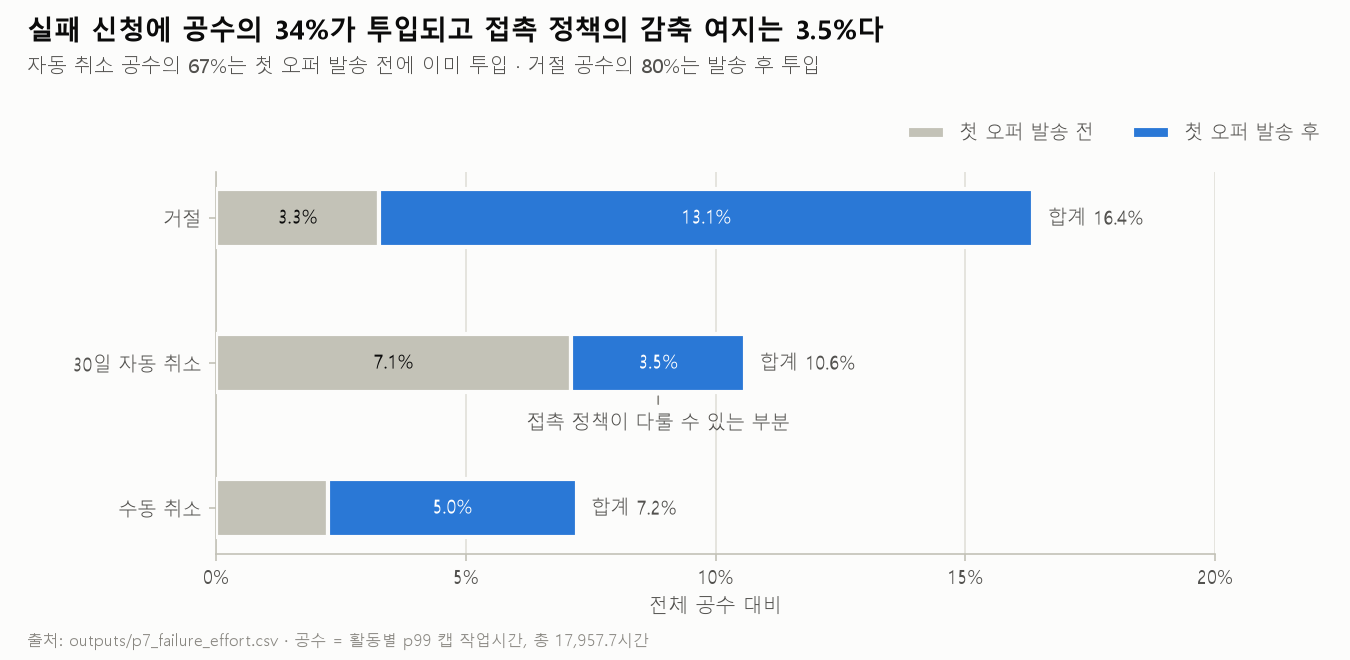
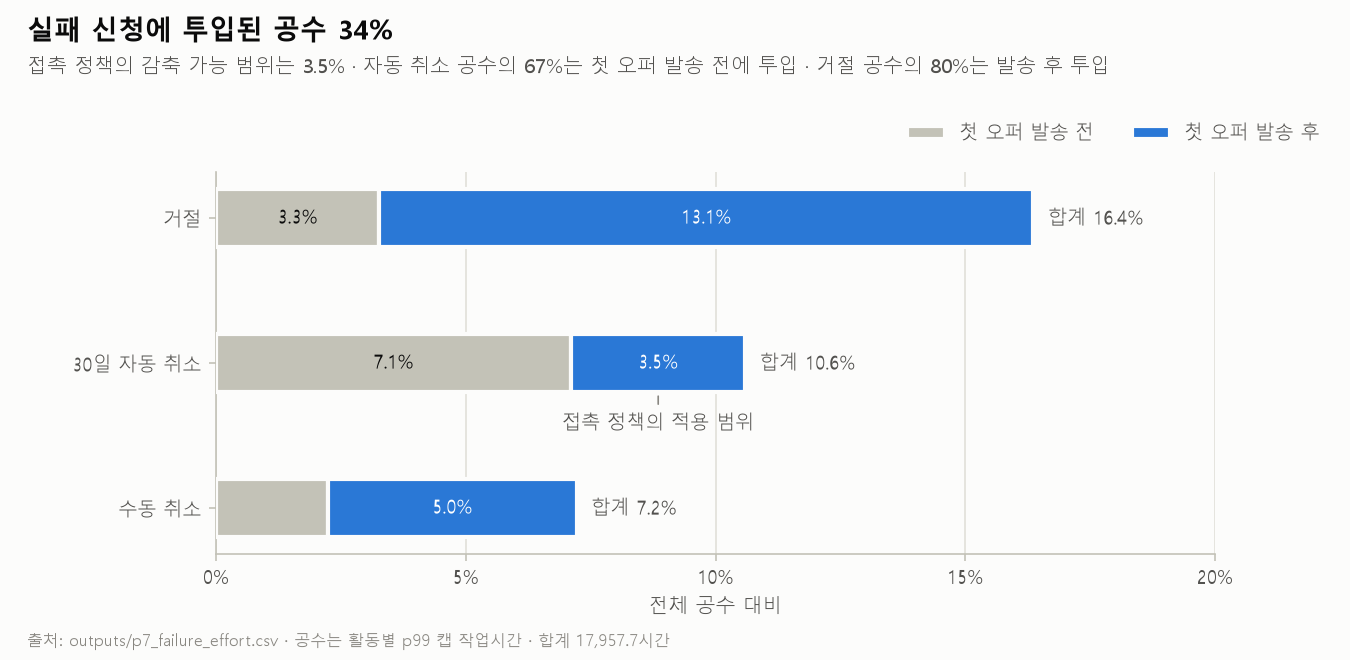
style: 도표 문구를 경영진 보고 어조로 재작성한다
도표 7개의 제목을 결론형 명사구로 바꾸고(30자 이내), 부제·각주의
종결을 순수 명사 하나로 통일했다. 구어 서술어(늘어난다·어렵다)와
층위가 어긋나던 완결문 제목을 걷어냈다.

문서와 대시보드의 도표 대체 텍스트 21건도 새 제목에 맞췄다.

문구 작성 규칙을 CLAUDE.md 0장의 전체 규칙으로 승격했다. 국문
산출물은 예외 없이 humanize-korean을 거치고, 어조는 경영진 보고용을
따르며, 마크다운은 GitHub 렌더링까지 확인한 뒤 보고한다.

Changed region(s): [[0.0, 0.0, 0.8089, 0.1212], [0.4044, 0.6061, 0.5911, 0.6667], [0.3111, 0.9394, 0.4978, 1.0]]

diff --git a/app/dashboard/template.html b/app/dashboard/template.html
@@ -70,7 +70,7 @@
         </div>
         <div class="card figure">
           <h3>30일 자동 취소 규칙</h3>
-          <img src="../charts/p1_cancel_gap.png" alt="취소는 마지막 오퍼 발송 30일 뒤에 집중된다">
+          <img src="../charts/p1_cancel_gap.png" alt="마지막 오퍼 발송 30일 후 취소 집중">
         </div>
       </div>
     </section>
@@ -89,7 +89,7 @@
         </div>
         <div class="card figure">
           <h3>성사율 × 효율</h3>
-          <img src="../charts/p5_rate_vs_eta.png" alt="성사율이 높은 세그먼트와 효율이 높은 세그먼트는 일치하지 않는다">
+          <img src="../charts/p5_rate_vs_eta.png" alt="성사율 순위와 효율 순위 불일치">
         </div>
       </div>
     </section>
@@ -107,7 +107,7 @@
         </div>
         <div class="card figure">
           <h3>배분 곡선</h3>
-          <img src="../charts/p5_targeting_curve.png" alt="같은 공수를 효율 순서로 배분하면 대출 규모가 13% 늘어난다">
+          <img src="../charts/p5_targeting_curve.png" alt="같은 공수로 효율 순서 배분 시 대출 규모 13% 증가">
         </div>
       </div>
     </section>
@@ -125,7 +125,7 @@
         </div>
         <div class="card figure">
           <h3>층화 후 비교</h3>
-          <img src="../charts/p6_multi_offer.png" alt="복수 오퍼의 성사율 우위는 나중 상담에서만 나타난다">
+          <img src="../charts/p6_multi_offer.png" alt="복수 오퍼 성사율 우위는 나중 상담에 한정">
         </div>
       </div>
     </section>
@@ -143,7 +143,7 @@
         </div>
         <div class="card figure">
           <h3>발송 전후 분해</h3>
-          <img src="../charts/p7_failure_effort.png" alt="실패 신청에 공수의 34%가 투입되고 접촉 정책의 감축 여지는 3.5%다">
+          <img src="../charts/p7_failure_effort.png" alt="실패 신청에 투입된 공수 34%">
         </div>
       </div>
     </section>
@@ -161,7 +161,7 @@
         </div>
         <div class="card figure">
           <h3>효율과 은행 처리 대기</h3>
-          <img src="../charts/p8_eta_vs_bank_wait.png" alt="효율이 높은 세그먼트일수록 은행 처리 대기시간이 증가한다">
+          <img src="../charts/p8_eta_vs_bank_wait.png" alt="효율이 높은 세그먼트일수록 긴 은행 처리 대기시간">
         </div>
       </div>
     </section>
@@ -178,7 +178,7 @@
         </div>
         <div class="card figure">
           <h3>6개월 기준</h3>
-          <img src="../charts/p9_ab_duration.png" alt="접촉 정책은 6개월 내 A/B 검증이 가능하나 첫 상담 단일 오퍼는 어렵다">
+          <img src="../charts/p9_ab_duration.png" alt="접촉 정책 6개월 내 검증 가능 · 단일 오퍼는 기간 과도">
         </div>
       </div>
     </section>

diff --git a/outputs/dashboard/index.html b/outputs/dashboard/index.html
@@ -70,7 +70,7 @@
         </div>
         <div class="card figure">
           <h3>30일 자동 취소 규칙</h3>
-          <img src="../charts/p1_cancel_gap.png" alt="취소는 마지막 오퍼 발송 30일 뒤에 집중된다">
+          <img src="../charts/p1_cancel_gap.png" alt="마지막 오퍼 발송 30일 후 취소 집중">
         </div>
       </div>
     </section>
@@ -89,7 +89,7 @@
         </div>
         <div class="card figure">
           <h3>성사율 × 효율</h3>
-          <img src="../charts/p5_rate_vs_eta.png" alt="성사율이 높은 세그먼트와 효율이 높은 세그먼트는 일치하지 않는다">
+          <img src="../charts/p5_rate_vs_eta.png" alt="성사율 순위와 효율 순위 불일치">
         </div>
       </div>
     </section>
@@ -107,7 +107,7 @@
         </div>
         <div class="card figure">
           <h3>배분 곡선</h3>
-          <img src="../charts/p5_targeting_curve.png" alt="같은 공수를 효율 순서로 배분하면 대출 규모가 13% 늘어난다">
+          <img src="../charts/p5_targeting_curve.png" alt="같은 공수로 효율 순서 배분 시 대출 규모 13% 증가">
         </div>
       </div>
     </section>
@@ -125,7 +125,7 @@
         </div>
         <div class="card figure">
           <h3>층화 후 비교</h3>
-          <img src="../charts/p6_multi_offer.png" alt="복수 오퍼의 성사율 우위는 나중 상담에서만 나타난다">
+          <img src="../charts/p6_multi_offer.png" alt="복수 오퍼 성사율 우위는 나중 상담에 한정">
         </div>
       </div>
     </section>
@@ -143,7 +143,7 @@
         </div>
         <div class="card figure">
           <h3>발송 전후 분해</h3>
-          <img src="../charts/p7_failure_effort.png" alt="실패 신청에 공수의 34%가 투입되고 접촉 정책의 감축 여지는 3.5%다">
+          <img src="../charts/p7_failure_effort.png" alt="실패 신청에 투입된 공수 34%">
         </div>
       </div>
     </section>
@@ -161,7 +161,7 @@
         </div>
         <div class="card figure">
           <h3>효율과 은행 처리 대기</h3>
-          <img src="../charts/p8_eta_vs_bank_wait.png" alt="효율이 높은 세그먼트일수록 은행 처리 대기시간이 증가한다">
+          <img src="../charts/p8_eta_vs_bank_wait.png" alt="효율이 높은 세그먼트일수록 긴 은행 처리 대기시간">
         </div>
       </div>
     </section>
@@ -178,7 +178,7 @@
         </div>
         <div class="card figure">
           <h3>6개월 기준</h3>
-          <img src="../charts/p9_ab_duration.png" alt="접촉 정책은 6개월 내 A/B 검증이 가능하나 첫 상담 단일 오퍼는 어렵다">
+          <img src="../charts/p9_ab_duration.png" alt="접촉 정책 6개월 내 검증 가능 · 단일 오퍼는 기간 과도">
         </div>
       </div>
     </section>

diff --git a/analysis/21_make_charts.py b/analysis/21_make_charts.py
@@ -55,7 +55,7 @@ def cancel_gap() -> str:
     ax.hist([days[system], days[~system]], bins=bins, stacked=True, rwidth=0.8,
             color=[SERIES[0], SERIES[1]], label=["시스템 처리 취소", "직원 처리 취소"], zorder=3)
     peak = np.histogram(days, bins=bins)[0].max()
-    ax.annotate(f"29~32일: 취소의 {summary['share_within_29_32_days']:.0%}\n"
+    ax.annotate(f"29~32일 구간 취소 {summary['share_within_29_32_days']:.0%} 집중\n"
                 f"그중 시스템 처리 {summary['system_share_within_rule']:.1%}",
                 xy=(31, peak * 0.95), xytext=(40, peak * 0.7), fontsize=9, color=INK2,
                 arrowprops=dict(arrowstyle="-", color=MUTED, lw=0.8))
@@ -64,8 +64,8 @@ def cancel_gap() -> str:
     ax.yaxis.set_major_formatter(THOUSANDS)
     ax.set_xlim(0, 61)
     fig.legend(loc="upper right", bbox_to_anchor=(0.99, 0.88), ncol=2)
-    headline(fig, "취소는 마지막 오퍼 발송 30일 뒤에 집중된다",
-             "고객이 30일간 응답하지 않으면 시스템이 자동 취소 · 취소 케이스의 소요시간은 은행 처리가 아닌 이 규칙에 따라 결정")
+    headline(fig, "마지막 오퍼 발송 30일 후 취소 집중",
+             "고객 무응답 30일 경과 시 시스템 자동 취소 · 취소 케이스 소요시간의 결정 요인은 은행 처리가 아닌 이 규칙")
     footnote(fig, "출처: outputs/p1_cancel_gap_summary.csv · 오퍼가 발송된 취소 9,593건 · 60일 이상은 60일 구간에 합산")
     return save(fig, "p1_cancel_gap.png")
 
@@ -91,11 +91,11 @@ def rate_vs_eta() -> str:
     ax.xaxis.set_major_formatter(PercentFormatter(1.0, decimals=0))
     ax.yaxis.set_major_formatter(THOUSANDS)
     fig.legend(loc="upper right", bbox_to_anchor=(0.99, 0.86), ncol=3)
-    headline(fig, "성사율이 높은 세그먼트와 효율이 높은 세그먼트는 일치하지 않는다",
-             f"세그먼트 39개의 성사율 순위와 효율 순위 간 상관 ρ = {align['rho_p_eta']:.2f} "
+    headline(fig, "성사율 순위와 효율 순위 불일치",
+             f"세그먼트 39개 대상 순위 상관 ρ = {align['rho_p_eta']:.2f} "
              f"(90% 구간 {align['rho_ci_lo']:.2f}~{align['rho_ci_hi']:.2f})")
     footnote(fig, "출처: outputs/p5_segment_efficiency.csv, p5_rank_alignment.csv · 가로·세로 선은 중앙값 · "
-                  "라벨이 붙은 점은 두 순위 차이가 가장 큰 세그먼트")
+                  "라벨이 붙은 점은 두 순위의 차이가 가장 큰 세그먼트")
     return save(fig, "p5_rate_vs_eta.png")
 
 
@@ -122,9 +122,9 @@ def targeting() -> str:
     ax.set_xlim(0, 100)
     ax.set_ylim(0, None)
     ax.legend(loc="lower right")
-    headline(fig, "같은 공수를 효율 순서로 배분하면 대출 규모가 13% 늘어난다",
-             "공수 예산 50% 지점에서 효율 순서와 성사율 순서 비교 · 관측된 세그먼트 평균으로 계산한 가상 배분")
-    footnote(fig, "출처: outputs/p5_targeting_compare.csv · 세그먼트 39개 · 배분 순서의 가치 비교(개입 효과 아님)")
+    headline(fig, "같은 공수로 효율 순서 배분 시 대출 규모 13% 증가",
+             "공수 예산 50% 지점의 효율 순서와 성사율 순서 비교 · 관측된 세그먼트 평균으로 산출한 가상 배분")
+    footnote(fig, "출처: outputs/p5_targeting_compare.csv · 세그먼트 39개 · 배분 순서 간 가치 비교 · 개입 효과와 무관")
     return save(fig, "p5_targeting_curve.png")
 
 
@@ -151,9 +151,9 @@ def multi_offer() -> str:
     right.set_ylim(0, 1.0)
     same = d.loc["multi_same - single", "stratified_diff"] * 100
     later = d.loc["multi_later - single", "stratified_diff"] * 100
-    headline(fig, "복수 오퍼의 성사율 우위는 '나중 상담'에서만 나타난다",
+    headline(fig, "복수 오퍼 성사율 우위는 나중 상담에 한정",
              f"세그먼트 층화 후 단일 오퍼 대비 성사율 차이는 같은 상담 {same:+.1f}%p, 나중 상담 {later:+.1f}%p"
-             " (고객이 남아 있어야 생기므로 상한)")
+             " · 나중 상담은 고객이 이탈하지 않은 경우에만 성립하는 상한")
     footnote(fig, "출처: outputs/p6_group_summary.csv, p6_stratified_diff.csv · 상담 구분은 D1(생성 간격 1일 초과) 기준 · "
                   "D2(첫 오퍼 발송 후 추가)에서도 방향 동일")
     return save(fig, "p6_multi_offer.png")
@@ -177,7 +177,7 @@ def failure_effort() -> str:
             if width >= 2.5:
                 ax.text(start + width / 2, yi, f"{width:.1f}%", ha="center", va="center", fontsize=9, color=ink)
         ax.text(b + a + 0.3, yi, f"합계 {b + a:.1f}%", va="center", fontsize=9, color=INK2)
-    ax.annotate("접촉 정책이 다룰 수 있는 부분", (before[1] + after[1] / 2, y[1] - 0.2), xytext=(0, -18),
+    ax.annotate("접촉 정책의 적용 범위", (before[1] + after[1] / 2, y[1] - 0.2), xytext=(0, -18),
                 textcoords="offset points", ha="center", fontsize=9, color=INK2,
                 arrowprops=dict(arrowstyle="-", color=MUTED, lw=0.8))
     ax.set_yticks(y, [name for _, name in rows])
@@ -189,10 +189,10 @@ def failure_effort() -> str:
     fig.legend(loc="upper right", bbox_to_anchor=(0.99, 0.84), ncol=2)
     auto_before = f.loc["auto_cancel", "effort_before"] / f.loc["auto_cancel", "effort_total"]
     denied_after = f.loc["denied", "effort_after"] / f.loc["denied", "effort_total"]
-    headline(fig, "실패 신청에 공수의 34%가 투입되고 접촉 정책의 감축 여지는 3.5%다",
-             f"자동 취소 공수의 {auto_before:.0%}는 첫 오퍼 발송 전에 이미 투입 · "
+    headline(fig, "실패 신청에 투입된 공수 34%",
+             f"접촉 정책의 감축 가능 범위는 3.5% · 자동 취소 공수의 {auto_before:.0%}는 첫 오퍼 발송 전에 투입 · "
              f"거절 공수의 {denied_after:.0%}는 발송 후 투입")
-    footnote(fig, f"출처: outputs/p7_failure_effort.csv · 공수 = 활동별 p99 캡 작업시간, 총 {total:,.1f}시간")
+    footnote(fig, f"출처: outputs/p7_failure_effort.csv · 공수는 활동별 p99 캡 작업시간 · 합계 {total:,.1f}시간")
     return save(fig, "p7_failure_effort.png")
 
 
@@ -213,8 +213,8 @@ def eta_vs_bank_wait() -> str:
     ax.xaxis.set_major_formatter(THOUSANDS)
     ax.set_ylim(0, None)
     fig.legend(loc="upper right", bbox_to_anchor=(0.99, 0.86), ncol=3)
-    headline(fig, "효율이 높은 세그먼트일수록 은행 처리 대기시간이 증가한다",
-             f"ρ(효율, 은행 보유 일수) = {rho:+.2f} · 은행 보유 시간 중 실제 작업 비중은 {active:.1%}, 나머지는 대기")
+    headline(fig, "효율이 높은 세그먼트일수록 긴 은행 처리 대기시간",
+             f"ρ(효율, 은행 보유 일수) = {rho:+.2f} · 은행 보유 시간 중 실제 작업 비중 {active:.1%} · 잔여는 대기 시간")
     footnote(fig, "출처: outputs/p8_segment_holder.csv, p8_intervention_checks.csv · 세그먼트 39개 · 영업시간 미보정")
     return save(fig, "p8_eta_vs_bank_wait.png")
 
@@ -243,11 +243,11 @@ def ab_duration() -> str:
     ax.grid(axis="y", visible=False)
     fig.legend(loc="upper right", bbox_to_anchor=(0.99, 0.84), ncol=2)
     flows = a.groupby(a["experiment"].str.startswith("first"))["eligible_per_month"].first()
-    headline(fig, "접촉 정책은 6개월 내 A/B 검증이 가능하나 첫 상담 단일 오퍼는 어렵다",
+    headline(fig, "접촉 정책 6개월 내 검증 가능 · 단일 오퍼는 기간 과도",
              f"단일 오퍼 규칙의 실제 영향 대상은 월 {flows[True]:,}건, 접촉 정책 대상은 월 {flows[False]:,}건 "
-             "(α 0.05 양측, 검정력 0.8, 1:1)")
-    footnote(fig, "출처: outputs/p9_ab_sample_sizes.csv · 효과 크기는 설계 파라미터(추정치 아님) · "
-                  "단일 오퍼를 전체 신청에 배정하면 효과가 희석돼 327.6개월(그림 제외)")
+             "· α 0.05 양측, 검정력 0.8, 1:1 배정")
+    footnote(fig, "출처: outputs/p9_ab_sample_sizes.csv · 효과 크기는 설계 파라미터 · 추정치 아님 · "
+                  "단일 오퍼를 전체 신청에 배정 시 효과 희석으로 327.6개월 소요(그림에서 제외)")
     return save(fig, "p9_ab_duration.png")
 
 

diff --git a/README.ko.md b/README.ko.md
@@ -10,7 +10,7 @@
 - 같은 공수를 효율 순서로 배분하면 공수 예산 50% 지점에서 **확보 대출 규모가 13.2% 증가**합니다.
 - 성사율 상위에는 소액·중액 신청이 분포하며 효율 상위는 대형 신규 신청입니다. 성사율과 대출 규모의 순위 상관이 0.454에 불과하므로, 성사율만으로 판단하면 규모의 차이를 반영하지 못합니다.
 
-![성사율이 높은 세그먼트와 효율이 높은 세그먼트는 일치하지 않는다](outputs/charts/p5_rate_vs_eta.png)
+![성사율 순위와 효율 순위 불일치](outputs/charts/p5_rate_vs_eta.png)
 
 ## 1. 배경과 위치 선정
 
@@ -67,27 +67,27 @@
 
 30일 자동 취소 규칙은 규칙이 만든 패턴을 발견으로 오인하지 않기 위한 확인 항목입니다. 오퍼가 발송된 취소의 77.0%가 마지막 발송 후 29\~32일에 발생했고 그중 99.5%를 시스템 계정이 처리했습니다. 따라서 소요시간을 성사의 원인 변수로 사용하지 않았습니다.
 
-![취소는 마지막 오퍼 발송 30일 뒤에 집중된다](outputs/charts/p1_cancel_gap.png)
+![마지막 오퍼 발송 30일 후 취소 집중](outputs/charts/p1_cancel_gap.png)
 
 같은 공수에서 배분 순서를 바꾸면 확보 대출 규모가 달라집니다. 성사율 순서와 효율 순서로 각각 배분해 비교한 결과, 공수 예산이 제약될수록 순서의 차이가 확대됩니다(25% 지점 +21.4%, 50% +13.2%, 75% +7.2%).
 
-![같은 공수를 효율 순서로 배분하면 대출 규모가 13% 늘어난다](outputs/charts/p5_targeting_curve.png)
+![같은 공수로 효율 순서 배분 시 대출 규모 13% 증가](outputs/charts/p5_targeting_curve.png)
 
 복수 오퍼의 우위는 나중 상담에서만 발생합니다. 세그먼트로 층화한 뒤에도 복수 오퍼의 성사율 우위는 +6.62%p로 유지되지만 전부 나중 상담에서 발생하며 공수도 함께 증가합니다. 첫 상담에서 오퍼를 여러 개 제시한 신청은 단일 오퍼보다 성사율이 낮습니다.
 
-![복수 오퍼의 성사율 우위는 '나중 상담'에서만 나타난다](outputs/charts/p6_multi_offer.png)
+![복수 오퍼 성사율 우위는 나중 상담에 한정](outputs/charts/p6_multi_offer.png)
 
 실패에 투입된 공수를 유형별로 구분하면 규모는 크지만 접촉 정책으로 다룰 수 있는 비중은 전체 공수의 3.5%입니다.
 
-![실패 신청에 공수의 34%가 투입되고 접촉 정책의 감축 여지는 3.5%다](outputs/charts/p7_failure_effort.png)
+![실패 신청에 투입된 공수 34%](outputs/charts/p7_failure_effort.png)
 
 현재 처리 순서는 효율과 반대 방향입니다. 효율이 높은 세그먼트일수록 은행 처리 대기가 길며(ρ = +0.346), 은행이 신청을 보유한 시간 중 실제 작업은 0.61%이고 나머지는 대기입니다.
 
-![효율이 높은 세그먼트일수록 은행 처리 대기시간이 증가한다](outputs/charts/p8_eta_vs_bank_wait.png)
+![효율이 높은 세그먼트일수록 긴 은행 처리 대기시간](outputs/charts/p8_eta_vs_bank_wait.png)
 
 검증에 필요한 기간은 수단에 따라 다릅니다. 권고 수단마다 필요한 표본과 기간을 월 유입량으로 환산한 결과, 접촉 정책은 5.5개월이면 판별되지만 첫 상담 단일 오퍼는 의사결정 지점이 월 309건뿐이라 8.4\~37.5개월이 필요합니다.
 
-![접촉 정책은 6개월 내 A/B 검증이 가능하나 첫 상담 단일 오퍼는 어렵다](outputs/charts/p9_ab_duration.png)
+![접촉 정책 6개월 내 검증 가능 · 단일 오퍼는 기간 과도](outputs/charts/p9_ab_duration.png)
 
 ## 5. 결과와 결론
 

diff --git a/docs/plans/visuals.md b/docs/plans/visuals.md
@@ -58,3 +58,20 @@
 | Phase 3 R 후보 비교 | 순위 상관 표 하나로 판정이 끝난다 |
 | Phase 4 세그먼트 η 점 도표 | p5 산점도의 세로축과 같은 정보다 |
 | Phase 6 금액 구간별 증분 η | 6행 표에서 구간 평균과의 비교가 바로 읽힌다 |
+
+## 문구 재작성 (2026-09-12)
+
+사용자 지적: 도표에 적힌 문장이 전부 구어체다.
+
+humanize-korean standard 경로로 7개 도표의 제목·부제·표식·각주를 재작성했다. 진단이 제시한 판단은 다음과 같다.
+
+- **제목은 합쇼체가 아니라 명사형 결론형이 맞다.** 근거 넷 — ① 프로젝트 기준이 이미 "라벨·제목은 명사형"이고 도표 제목은 카드 제목과 같은 층위다 ② "~합니다"가 정보 없이 7개 제목에서 35자를 차지한다 ③ 부제·각주가 전부 명사형인데 제목만 완결문이라 층위가 어긋난다 ④ 직전 판본이 지적받은 원인은 한다체가 아니라 고유어 구어 서술어(늘어난다·어렵다)였다.
+- 주제 라벨로 후퇴하지 않고 결론을 담은 명사구로 전환했다 (예: `취소는 마지막 오퍼 발송 30일 뒤에 집중된다` → `마지막 오퍼 발송 30일 후 취소 집중`).
+- 제목 길이를 26\~45자에서 30자 이내로 맞췄다. 도표 5\~7은 두 사실이 붙어 있어 둘째 사실을 부제로 내렸다.
+- 부제·각주의 종결을 순수 명사 하나로 통일했다(이전에는 명사·'-ㅁ' 어미·연결어미 절이 혼재).
+
+게이트: 문자율 7.5%, golden PASS, 서법 소실 0문장 (exit 0).
+
+실행 중 조정 1건: 도표 7의 제목이 접촉 정책만 담고 대비가 사라져, `접촉 정책 6개월 내 검증 가능 · 단일 오퍼는 기간 과도`로 되살렸다. 이 도표의 존재 이유가 두 수단의 대비이기 때문이다.
+
+문서와 대시보드의 도표 대체 텍스트 21건도 새 제목과 일치시켰다.

diff --git a/docs/06_multi_offer.md b/docs/06_multi_offer.md
@@ -36,7 +36,7 @@
 | D2 | 복수 · 같은 상담 | 2,498 | 0.456 | 0.562 | 14,679 | 43.2% |
 | D2 | 복수 · 나중 상담 | 5,458 | 0.650 | 0.826 | 15,996 | 25.0% |
 
-![복수 오퍼의 성사율 우위는 '나중 상담'에서만 나타난다](../outputs/charts/p6_multi_offer.png)
+![복수 오퍼 성사율 우위는 나중 상담에 한정](../outputs/charts/p6_multi_offer.png)
 
 **선행 보고서와의 관계:** metafinanz는 "다회 대화 65.0% > 단일 대화 45.9%", KPMG는 "다회 대화 81.75% > 단일 대화 65.34%", Badakhshan은 "단일 대화 65% > 다회 21%"라고 보고했다 (각각 metafinanz p.28, KPMG p.11, Badakhshan et al. p.18). KPMG는 오퍼 생성 간격 8시간을 대화 구분 기준으로 삼았고, 이 프로젝트의 D1(1일)과 기준만 다를 뿐 방향은 같다. 따라서 **선행 3편 중 2편이 이 프로젝트와 같은 방향이다.** Badakhshan의 정의(W_Call after offers 개입 여부)는 여기서 재현하지 않았으므로, 그 결과가 틀렸다고는 말하지 않는다. "정의에 따라 뒤집힌다"는 우려는 적어도 시간 기준과 발송 기준 사이에서는 성립하지 않는다.
 

diff --git a/docs/09_requirements.md b/docs/09_requirements.md
@@ -105,7 +105,7 @@
 | 〃 | 〃 | 〃 | **−2%p (설계)** | 7,245 | **5.5개월** | **가능** |
 | 〃 | 〃 | 〃 | −3%p (설계) | 3,175 | 2.4개월 | 가능 |
 
-![접촉 정책은 6개월 내 A/B 검증이 가능하나 첫 상담 단일 오퍼는 어렵다](../outputs/charts/p9_ab_duration.png)
+![접촉 정책 6개월 내 검증 가능 · 단일 오퍼는 기간 과도](../outputs/charts/p9_ab_duration.png)
 
 - **접촉 정책:** 자동 취소율을 2%p 이상 낮추는 규칙이라면 6개월 안에 판별할 수 있다. 그보다 작은 효과는 이 유입량으로 잡을 수 없다.
 - **첫 상담 단일 오퍼:** 이 규칙이 바꾸는 신청은 전체의 11.7%(월 309건)다. 관측 연관 크기에서도 A/B에 8개월 이상 걸린다. 전체 신청에 배정하면 효과가 희석돼 사실상 불가능하다. → MR3로 대체한다.

diff --git a/docs/01_process_baseline.md b/docs/01_process_baseline.md
@@ -78,7 +78,7 @@
 | 그 구간 안 취소 중 시스템 처리 비중 | 99.5% |
 | 그 구간 밖 취소 중 시스템 처리 비중 | 0.0% |
 
-![취소는 마지막 오퍼 발송 30일 뒤에 집중된다](../outputs/charts/p1_cancel_gap.png)
+![마지막 오퍼 발송 30일 후 취소 집중](../outputs/charts/p1_cancel_gap.png)
 
 **판정:** 규칙이 실재한다 (P7 확정). 29\~32일 구간의 취소는 사실상 전부 시스템이 처리했고, 구간 밖 취소는 전부 직원이 처리했다. 그러므로 취소는 두 유형이다.
 - **자동 취소:** 오퍼 발송 후 30일 무응답. 고객이 반응하지 않은 결과다.

diff --git a/docs/07_failed_effort.md b/docs/07_failed_effort.md
@@ -23,7 +23,7 @@
 | 30일 자동 취소 | 7,375 | 0.258 | 1,276.7 | 626.1 | 1,902.9 | **10.6%** | **3.5%** |
 | 수동 취소 | 2,317 | 0.560 | 403.2 | 893.5 | 1,296.7 | **7.2%** | 5.0% |
 
-![실패 신청에 공수의 34%가 투입되고 접촉 정책의 감축 여지는 3.5%다](../outputs/charts/p7_failure_effort.png)
+![실패 신청에 투입된 공수 34%](../outputs/charts/p7_failure_effort.png)
 
 유형·활동·시점별 비중 (`outputs/p7_failure_effort_by_activity.csv`, 전체 공수 대비):
 
